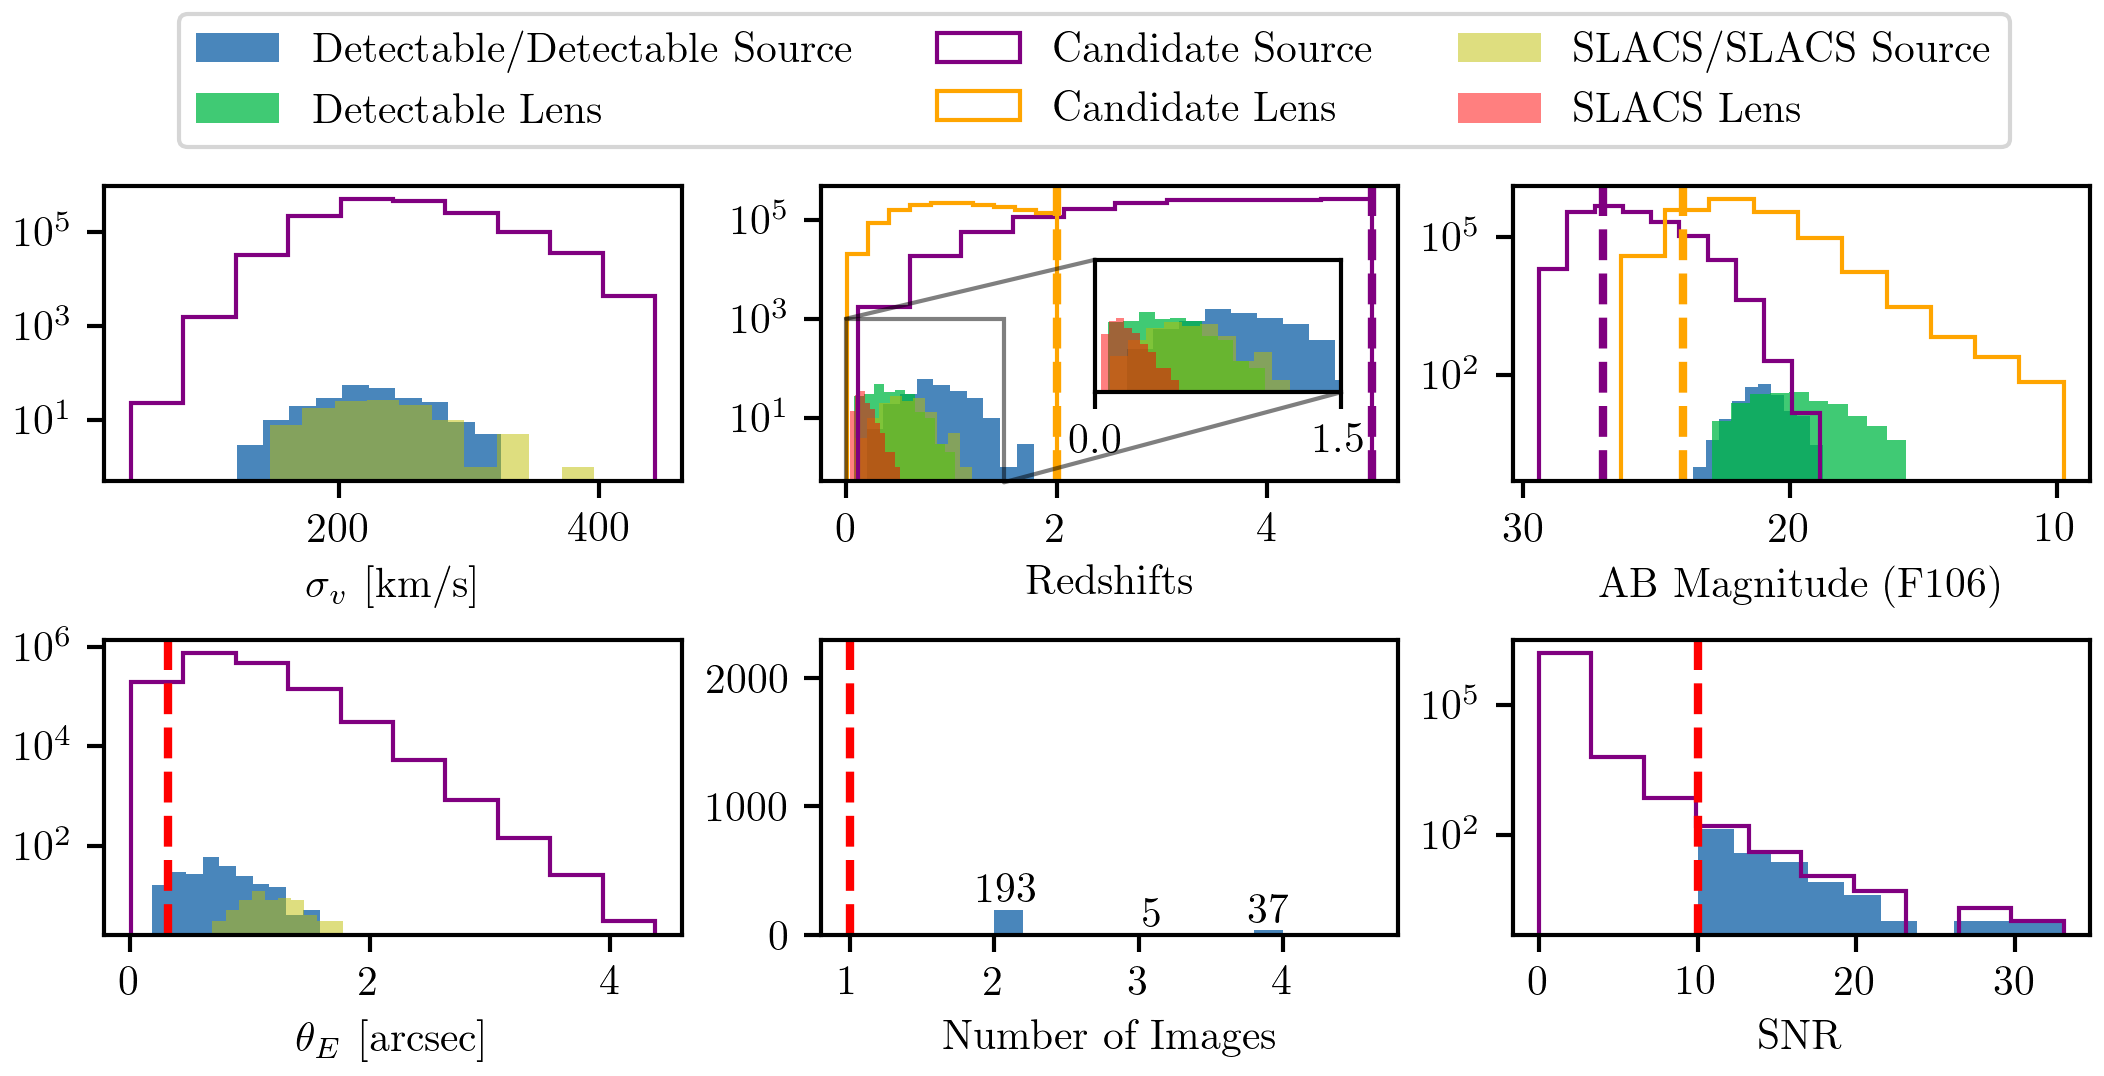
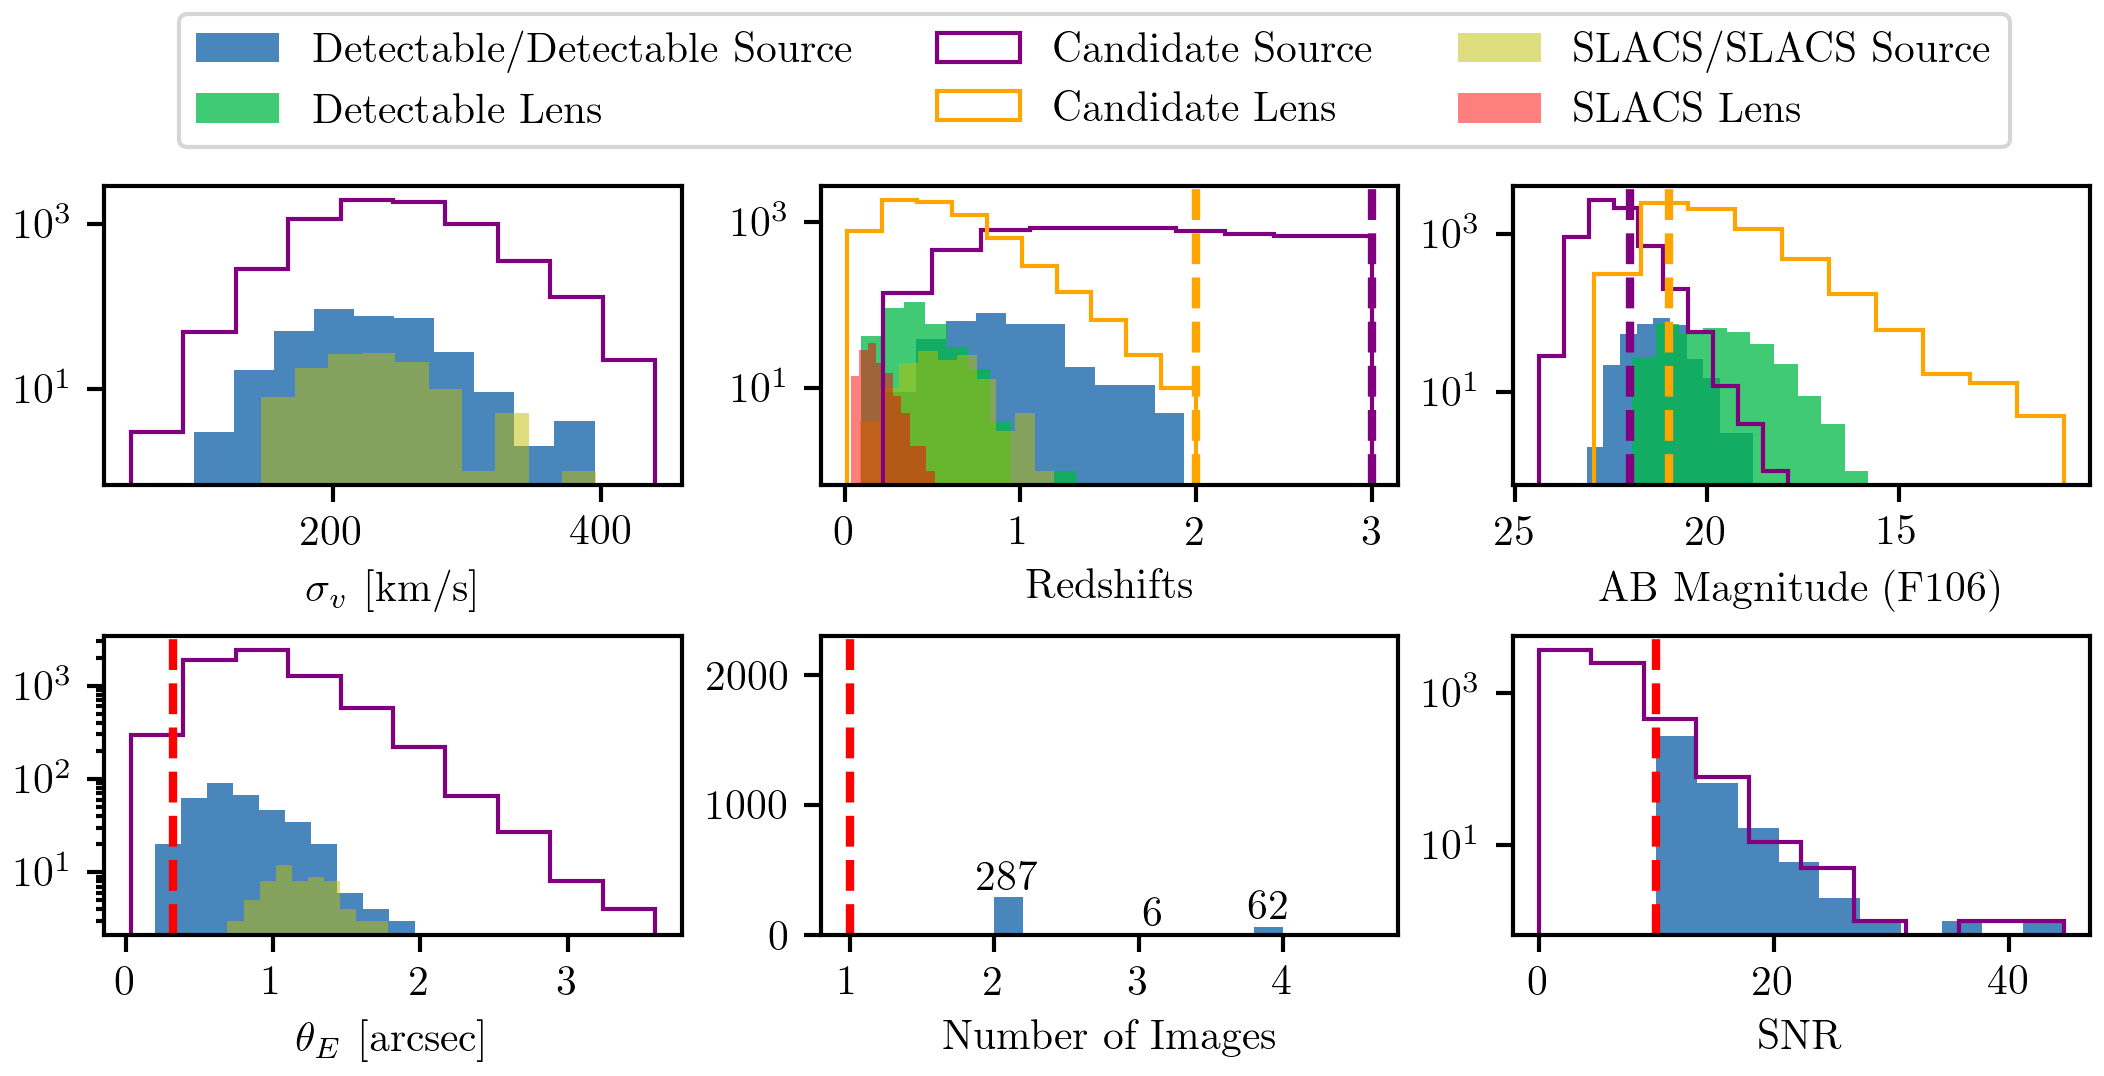
work on survey sim low yield issue

diff --git a/scripts/pipeline/00_hlwas_sim.py b/scripts/pipeline/00_hlwas_sim.py
@@ -140,8 +140,8 @@ def run_slsim(tuple):
     if debugging: print(f'Computing SNRs for {len(total_lens_population)} lenses')
     snr_list = []
     for candidate in tqdm(total_lens_population, disable=not debugging):
-        snr, _ = survey_sim.get_snr(candidate, 
-                                    survey_params['snr_band'],
+        snr, _ = survey_sim.get_snr(gglens=candidate, 
+                                    band=survey_params['snr_band'],
                                     mask_mult=survey_params['snr_mask_multiplier'],
                                     zodi_mult=survey_params['zodi_multiplier'])
         snr_list.append(snr)
@@ -157,7 +157,7 @@ def run_slsim(tuple):
     kwargs_lens_detectable_cut = {
         'min_image_separation': survey_params['min_image_separation'],
         'max_image_separation': survey_params['max_image_separation'],
-        'mag_arc_limit': {survey_params['mag_arc_limit_band']: survey_params['mag_arc_limit']}
+        'mag_arc_limit': None # {survey_params['mag_arc_limit_band']: survey_params['mag_arc_limit']} TODO UPDATE
     }
     lens_population = lens_pop.draw_population(kwargs_lens_cuts=kwargs_lens_detectable_cut)
     if debugging: print(f'Number of detectable lenses from first set of criteria: {len(lens_population)}')
@@ -186,8 +186,10 @@ def run_slsim(tuple):
             continue
 
         # 2. SNR
-        snr, _ = survey_sim.get_snr(candidate, survey_params['snr_band'],
-                                    mask_mult=survey_params['snr_mask_multiplier'])
+        snr, _ = survey_sim.get_snr(gglens=candidate, 
+                                    band=survey_params['snr_band'],
+                                    mask_mult=survey_params['snr_mask_multiplier'],
+                                    zodi_mult=survey_params['zodi_multiplier'])
 
         if snr < survey_params['snr_threshold']:
             snr_list.append(snr)

diff --git a/scripts/pipeline/00_check.py b/scripts/pipeline/00_check.py
@@ -21,7 +21,7 @@ def main(config):
     start = time.time()
 
     # debugging mode will print statements to console
-    debugging = True
+    debugging = False
 
     # enable use of local packages
     repo_dir = config.machine.repo_dir
@@ -54,7 +54,7 @@ def main(config):
     pipeline_params = util.hydra_to_dict(config.pipeline)
     runs = pipeline_params['survey_sim_runs']
 
-    deflector_source_pairs = [(21, 22), (21, 23), (21, 24), (23, 24), (23, 25), (23, 26), (24, 25), (24, 26), (24, 27), (25, 26), (25, 27), (25, 28), (26, 27), (16, 28), (26, 29), (27, 28), (27, 29), (27, 30)]
+    deflector_source_pairs = [(21, 22), (21, 23), (21, 24), (23, 24), (23, 25), (23, 26), (24, 25), (24, 26), (24, 27), (25, 26), (25, 27), (25, 28), (26, 27), (26, 28), (26, 29), (27, 28), (27, 29), (27, 30)]
 
     for deflector_cut, source_cut in tqdm(deflector_source_pairs):
             survey_params['deflector_cut_band_max'] = deflector_cut

diff --git a/mejiro/helpers/survey_sim.py b/mejiro/helpers/survey_sim.py
@@ -46,7 +46,7 @@ def get_snr(gglens, band, mask_mult=1., zodi_mult=1.5, side=4.95, **kwargs):
     # estimate and add background
     estimated_background = (min_zodiacal_light * zodi_mult) + thermal_background  # in counts/pixel
     estimated_background *= np.ones(total_image.shape)
-    total_image += estimated_background
+    # total_image += estimated_background TODO UPDATE
 
     # add noise
     noise = sim_api.noise_for_model(model=total_image)
